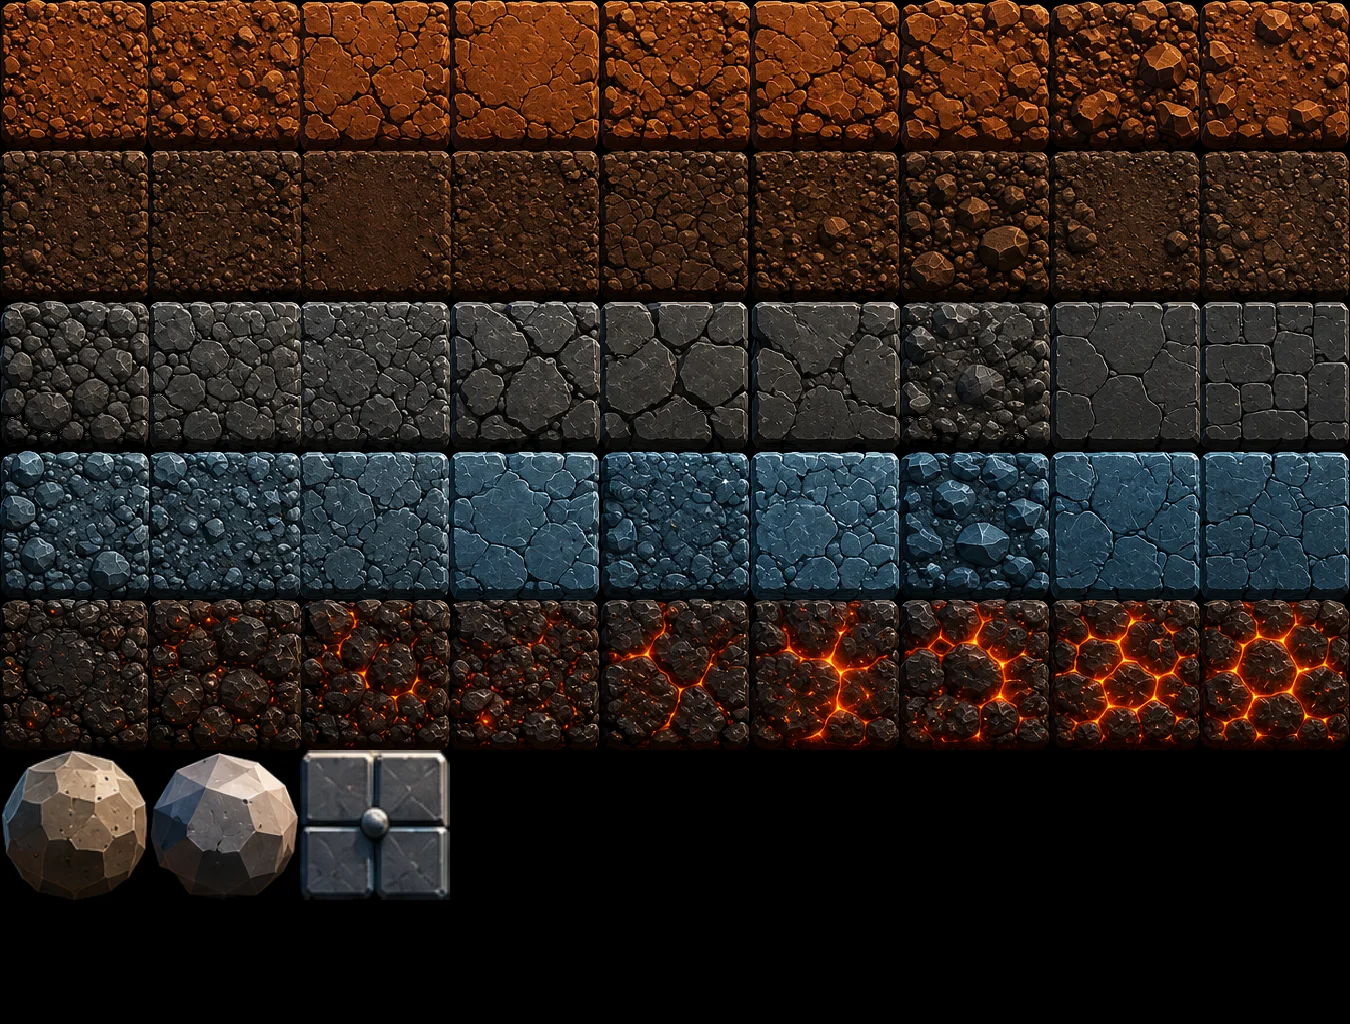
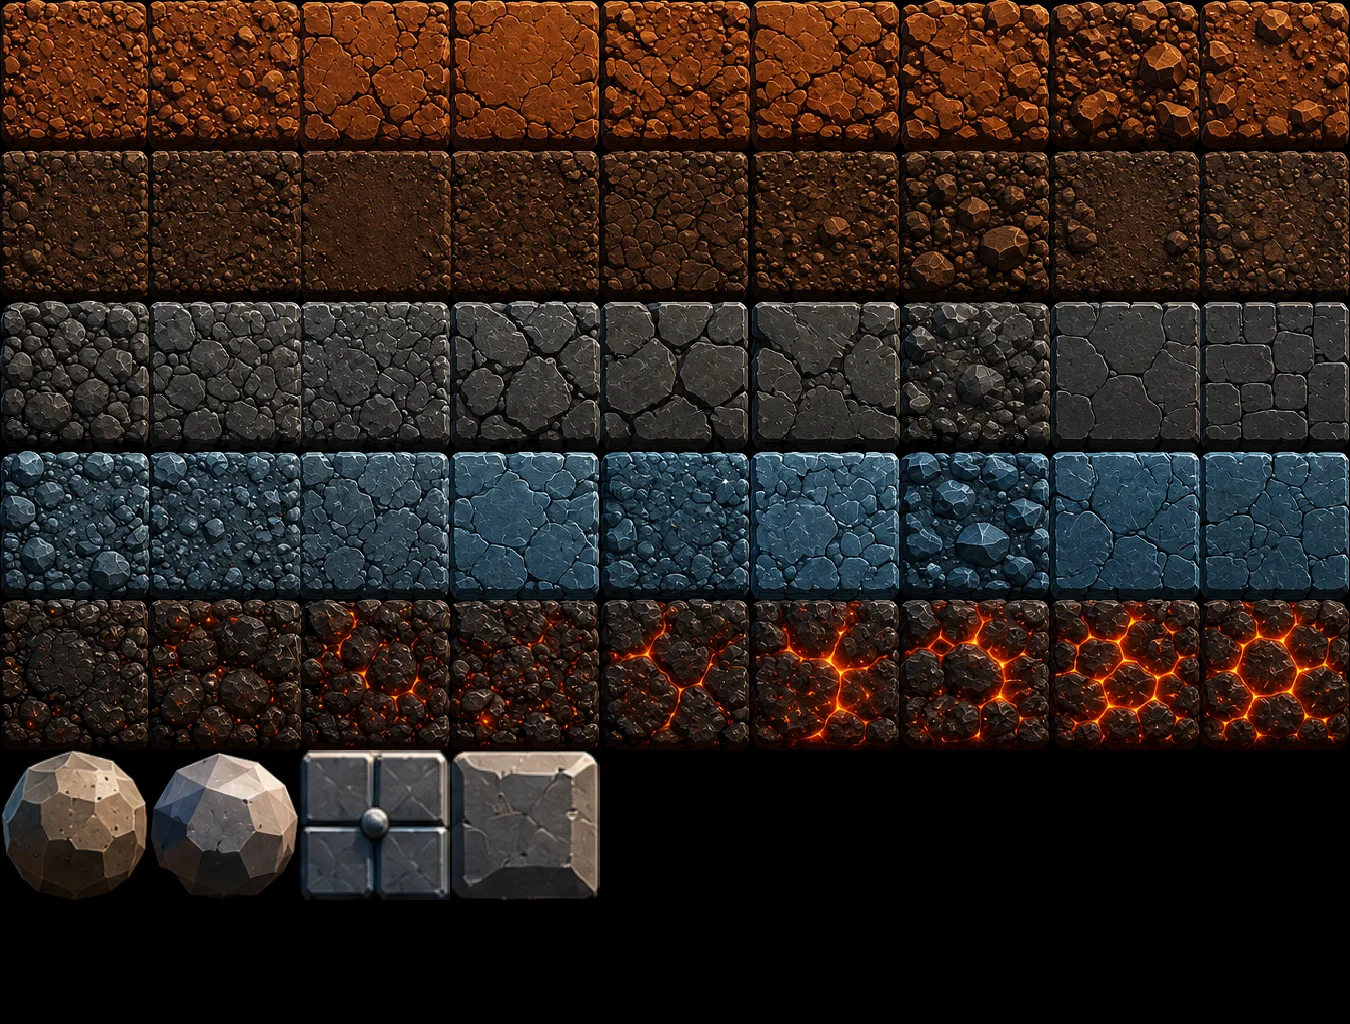
ui

Changed region(s): [[0.3111, 0.7188, 0.4667, 0.875]]

diff --git a/src/css/main.less b/src/css/main.less
@@ -1,5 +1,6 @@
 
 // background: transparent;
+background: #000;
 
 content {
 	position: absolute;
@@ -89,7 +90,8 @@ content {
 		top: 0;
 		left: 0;
 		font-size: 0;
-		--scale: .175;
+		// --scale: .175;
+		--scale: .5;
 		--tW: calc( 150px * var( --scale ) );
 		--tH: calc( 150px * var( --scale ) );
 
@@ -107,12 +109,31 @@ content {
 			width: var( --tW );
 			height: var( --tH );
 
+			&.t0 { background-position: calc( 150px * var( --scale ) ) calc( 150px * var( --scale ) ); }
 			&.t1 { background-position: 0px 0px; }
-			&.t2 { background-position: calc( -300px * var( --scale ) ) calc( -600px * var( --scale ) ); }
+			&.t2 { background-position: calc( -450px * var( --scale ) ) calc( -750px * var( --scale ) ); }
 			&.t3 { background-position: calc( -450px * var( --scale ) ) calc( -600px * var( --scale ) ); }
 			&.t4 { background-position: calc( -300px * var( --scale ) ) calc( -750px * var( --scale ) ); }
 
 			&.t5 { background-position: 0px calc( -750px * var( --scale ) ); }
+
+			&.t7 {
+				background-position: calc( 150px * var( --scale ) ) calc( 150px * var( --scale ) );
+
+				&:after {
+					content: "";
+					background: url(~/img/crystalball.webp) 0 0 no-repeat;
+					position: absolute;
+					top: 2px;
+					left: 2px;
+					width: 190px;
+					height: 190px;
+					transform-origin: 0 0;
+					scale: calc( var( --scale ) * .75 );
+					filter: drop-shadow(0 0 3px #fff5) drop-shadow(0 0 15px #fff7);
+					animation: crystal 3000ms steps(40) infinite;
+				}
+			}
 		}
 	}
 

diff --git a/src/js/areas/editor.js b/src/js/areas/editor.js
@@ -5,6 +5,7 @@
 	init() {
 		// fast references
 		this.els = {
+			doc: $(document),
 			content: window.find("content"),
 			el: window.find("content .editor-view .level"),
 		};
@@ -18,6 +19,8 @@
 		switch (event.type) {
 			// custom events
 			case "show-view":
+				// pan viewport events
+				Self.els.el.on("mousedown", Self.doPan);
 				break;
 			case "hide-view":
 				break;
@@ -33,6 +36,45 @@
 				Self.els.el
 					.css({ "--mW": lvl.width, "--mH": lvl.height })
 					.html(str.join(""));
+				break;
+		}
+	},
+	doPan(event) {
+		let APP = boulder,
+			Self = APP.editor,
+			Pan = Self.pan;
+		switch (event.type) {
+			case "mousedown":
+				if (event.button != 0) return;
+				// prevent default behaviour
+				event.preventDefault();
+
+				let el = Self.els.el,
+					offset = el.offset(".editor-view"),
+					data = {
+						...offset,
+						y: +el.cssProp("--y"),
+						x: +el.cssProp("--x"),
+						tile: parseInt(el.cssProp("--tile"), 10),
+					},
+					click = {
+						y: event.clientY - offset.top,
+						x: event.clientX - offset.left,
+					};
+				// save drag details
+				Self.pan = { el, data, click };
+
+				// bind events
+				Self.els.doc.on("mousemove mouseup", Self.doPan);
+				break;
+			case "mousemove":
+				let top = event.clientY - Pan.click.y,
+					left = event.clientX - Pan.click.x;
+				Pan.el.css({ top, left, });
+				break;
+			case "mouseup":
+				// unbind events
+				Self.els.doc.off("mousemove mouseup", Self.doPan);
 				break;
 		}
 	}
